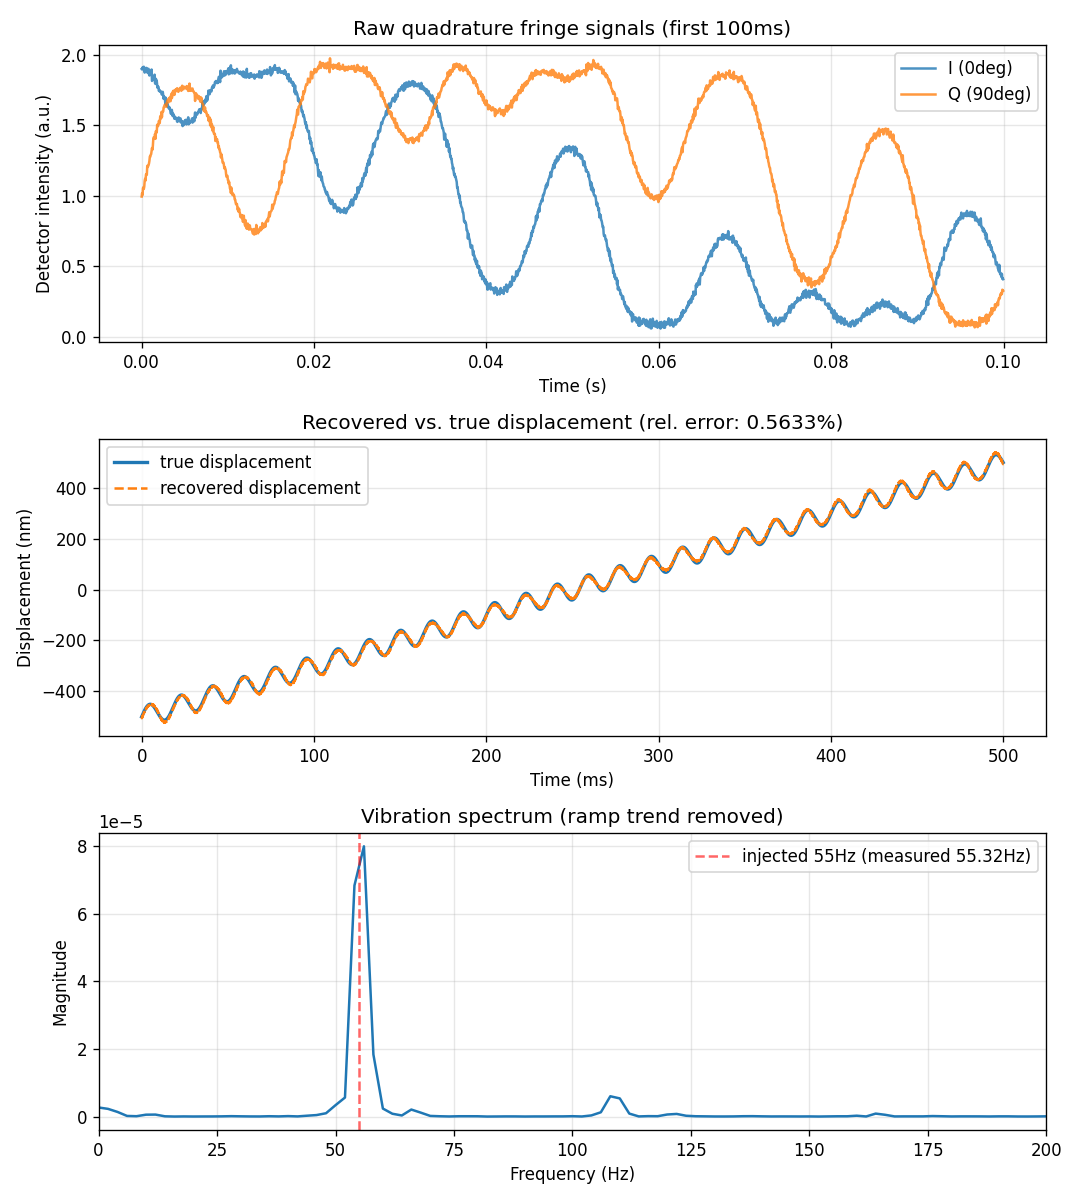
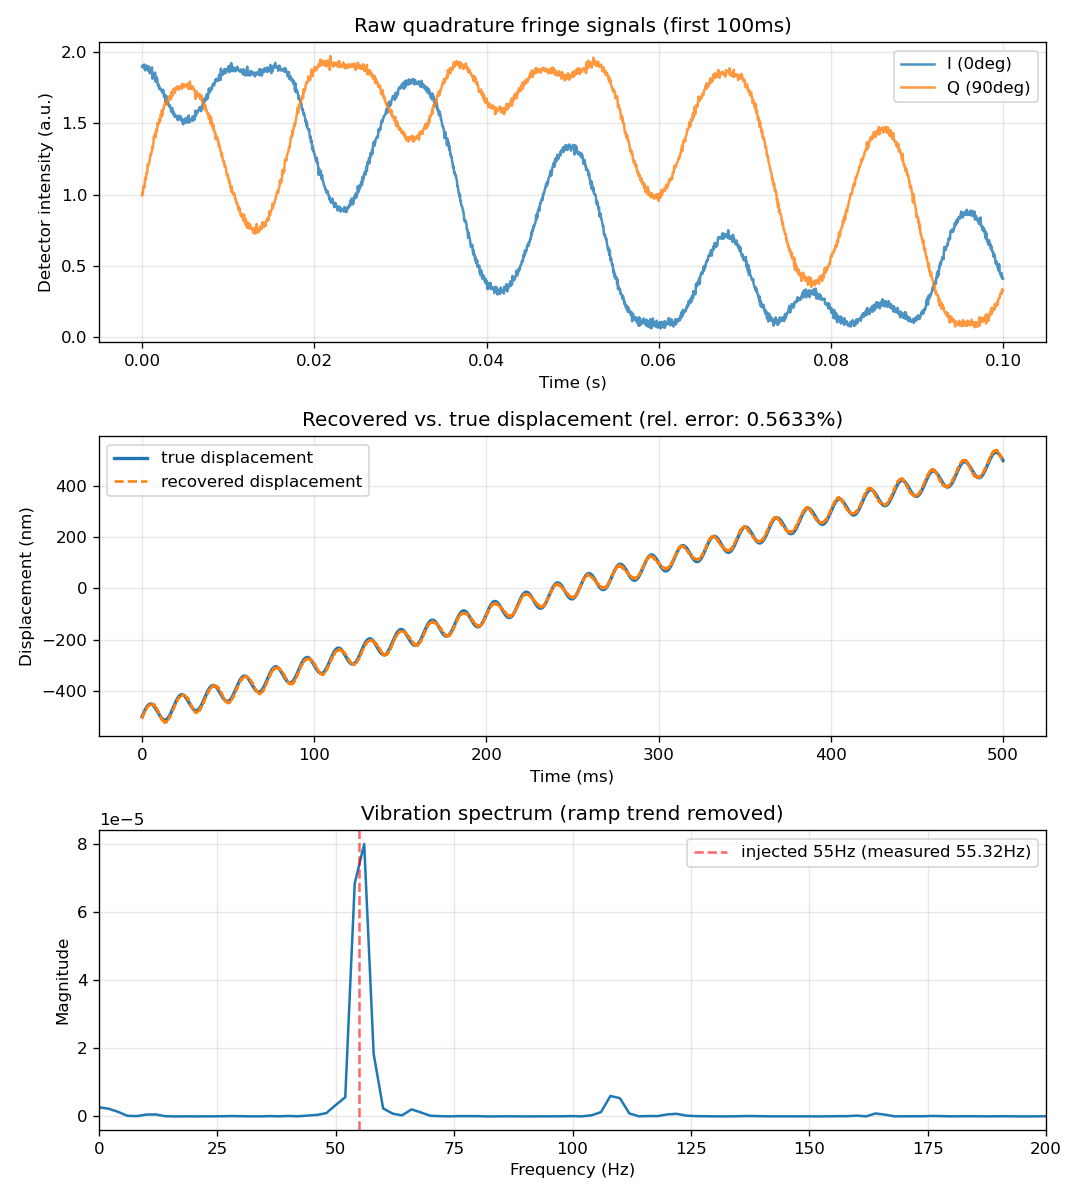
quality pass: fix stale docstring, dedupe dashboard's simulation params and FFT logic, add missing docstrings and a div-by-zero guard

diff --git a/src/analysis.py b/src/analysis.py
@@ -3,8 +3,10 @@ Analysis pipeline: raw quadrature (I, Q) detector signals -> recovered
 mirror displacement.
 
 Steps:
-1. Remove DC bias via a low-pass filter (NOT a whole-record mean -- see the
-   docstring on estimate_dc_lowpass for why that matters).
+1. Remove DC bias via a geometric circle fit on the raw (I,Q) trajectory
+   (NOT a whole-record mean, and not a low-pass filter either -- both were
+   tried and both broke on pure-vibration signals with no ramp; see the
+   docstring on fit_circle_center for the full story).
 2. Remove the 60Hz mains component via a least-squares sinusoid fit at
    exactly 60Hz and subtract it -- narrowband, so it does NOT touch the
    real slow displacement signal the way a generic polynomial detrend would.
@@ -80,13 +82,15 @@ def recover_displacement(
     return displacement
 
 
-def detect_vibration_freq(x_recovered: np.ndarray, t: np.ndarray) -> tuple[float, float]:
+def detect_vibration_freq(x_recovered: np.ndarray, t: np.ndarray, return_spectrum: bool = False):
     """Removes the slow linear trend (ramp) from recovered displacement, then
     FFTs the residual to find the dominant vibration frequency. Uses
     parabolic interpolation around the FFT peak for sub-bin frequency
     accuracy (plain argmax is only accurate to the bin width).
 
-    Returns (frequency_hz, magnitude_at_peak)."""
+    Returns (frequency_hz, magnitude_at_peak), or (frequency_hz, magnitude_at_peak,
+    freqs, spectrum) if return_spectrum=True -- lets a caller (e.g. dashboard.py)
+    plot the same spectrum this function computed instead of re-deriving it."""
     # remove linear trend (the ramp) -- least-squares line fit, subtract
     design = np.column_stack([t, np.ones_like(t)])
     coeffs, *_ = np.linalg.lstsq(design, x_recovered, rcond=None)
@@ -99,11 +103,14 @@ def detect_vibration_freq(x_recovered: np.ndarray, t: np.ndarray) -> tuple[float
 
     peak_bin = int(np.argmax(spectrum))
     if peak_bin == 0 or peak_bin == len(spectrum) - 1:
-        return float(freqs[peak_bin]), float(spectrum[peak_bin])
+        freq, mag = float(freqs[peak_bin]), float(spectrum[peak_bin])
+    else:
+        y0, y1, y2 = spectrum[peak_bin - 1], spectrum[peak_bin], spectrum[peak_bin + 1]
+        denom = y0 - 2 * y1 + y2
+        delta = 0.5 * (y0 - y2) / denom if denom != 0 else 0.0
+        bin_width = freqs[1] - freqs[0]
+        freq, mag = float(freqs[peak_bin] + delta * bin_width), float(spectrum[peak_bin])
 
-    y0, y1, y2 = spectrum[peak_bin - 1], spectrum[peak_bin], spectrum[peak_bin + 1]
-    denom = y0 - 2 * y1 + y2
-    delta = 0.5 * (y0 - y2) / denom if denom != 0 else 0.0
-    bin_width = freqs[1] - freqs[0]
-    freq = freqs[peak_bin] + delta * bin_width
-    return float(freq), float(spectrum[peak_bin])
+    if return_spectrum:
+        return freq, mag, freqs, spectrum
+    return freq, mag

diff --git a/src/dashboard.py b/src/dashboard.py
@@ -12,24 +12,23 @@ sys.path.insert(0, str(Path(__file__).resolve().parent))
 import matplotlib
 matplotlib.use("Agg")
 import matplotlib.pyplot as plt
-import numpy as np
 
-from optics import simulate_interferometer
-from validate import make_test_displacement, run_validation
+from validate import run_validation
 from analysis import detect_vibration_freq
 
 RESULTS_DIR = Path(__file__).resolve().parent.parent / "results"
 
 
 def render_dashboard(out_path: Path = RESULTS_DIR / "dashboard.png"):
-    result = run_validation(duration_s=0.5, fs=20_000)  # shorter window for a readable fringe plot
-    t, x_true, x_recovered = result["t"], result["x_true"], result["x_recovered"]
+    # shorter window for a readable fringe plot; I/Q/t/x_true/x_recovered all
+    # come from this single run_validation call now (rather than a second,
+    # separately-parameterized simulate_interferometer call) so there's no
+    # risk of the two calls' parameters silently drifting apart.
+    result = run_validation(duration_s=0.5, fs=20_000)
+    t, I, Q = result["t"], result["I"], result["Q"]
+    x_true, x_recovered = result["x_true"], result["x_recovered"]
 
-    displacement_fn = make_test_displacement(2e-6, 40e-9, 55.0)
-    I, Q, _ = simulate_interferometer(t, displacement_fn, shot_noise_std=0.01, thermal_noise_std=0.01,
-                                       mains_amplitude=0.02, drift_amplitude=0.01, seed=1)
-
-    freq, _ = detect_vibration_freq(x_recovered, t)
+    freq, _, freqs, spectrum = detect_vibration_freq(x_recovered, t, return_spectrum=True)
 
     fig, axes = plt.subplots(3, 1, figsize=(9, 10))
 
@@ -52,12 +51,6 @@ def render_dashboard(out_path: Path = RESULTS_DIR / "dashboard.png"):
     ax.grid(alpha=0.3)
 
     ax = axes[2]
-    design = np.column_stack([t, np.ones_like(t)])
-    coeffs, *_ = np.linalg.lstsq(design, x_recovered, rcond=None)
-    residual = x_recovered - design @ coeffs
-    windowed = residual * np.hanning(len(residual))
-    spectrum = np.abs(np.fft.rfft(windowed))
-    freqs = np.fft.rfftfreq(len(windowed), d=t[1] - t[0])
     ax.plot(freqs, spectrum)
     ax.axvline(55.0, color="red", linestyle="--", alpha=0.6, label=f"injected 55Hz (measured {freq:.2f}Hz)")
     ax.set_xlim(0, 200)
@@ -68,7 +61,7 @@ def render_dashboard(out_path: Path = RESULTS_DIR / "dashboard.png"):
     ax.grid(alpha=0.3)
 
     fig.tight_layout()
-    RESULTS_DIR.mkdir(exist_ok=True)
+    RESULTS_DIR.mkdir(parents=True, exist_ok=True)
     fig.savefig(out_path, dpi=120)
     plt.close(fig)
     print(f"Saved dashboard to {out_path}")

diff --git a/src/validate.py b/src/validate.py
@@ -10,6 +10,8 @@ from analysis import recover_displacement
 
 
 def make_test_displacement(ramp_velocity_m_s: float, vib_amplitude_m: float, vib_freq_hz: float):
+    """Returns a displacement_fn(t) = ramp + sinusoidal vibration, for injecting
+    a known ground-truth waveform into simulate_interferometer during validation."""
     def displacement_fn(t):
         return ramp_velocity_m_s * t + vib_amplitude_m * np.sin(2 * np.pi * vib_freq_hz * t)
     return displacement_fn
@@ -27,6 +29,14 @@ def run_validation(
     drift_amplitude: float = 0.01,
     seed: int = 1,
 ) -> dict:
+    """Injects a known ramp+vibration displacement, simulates the resulting
+    (I,Q) detector signals, recovers displacement via the analysis pipeline,
+    and measures recovery error against the injected ground truth.
+
+    Returns a dict with keys: t, x_true, x_recovered (all mean-centered, since
+    absolute phase is arbitrary), rms_error_m, peak_to_peak_m, rel_error
+    (rms_error_m / peak_to_peak_m -- the Phase 2 acceptance metric, target <1%).
+    """
     t = np.arange(0, duration_s, 1 / fs)
     displacement_fn = make_test_displacement(ramp_velocity_m_s, vib_amplitude_m, vib_freq_hz)
 
@@ -47,10 +57,15 @@ def run_validation(
     error = x_recovered_centered - x_true_centered
     rms_error = np.sqrt(np.mean(error ** 2))
     peak_to_peak = np.ptp(x_true_centered)
+    if peak_to_peak == 0:
+        raise ValueError(
+            "peak_to_peak displacement is exactly 0 (ramp_velocity_m_s and vib_amplitude_m "
+            "both 0?) -- relative error is undefined for a flat ground-truth signal"
+        )
     rel_error = rms_error / peak_to_peak
 
     return {
-        "t": t, "x_true": x_true_centered, "x_recovered": x_recovered_centered,
+        "t": t, "I": I, "Q": Q, "x_true": x_true_centered, "x_recovered": x_recovered_centered,
         "rms_error_m": rms_error, "peak_to_peak_m": peak_to_peak, "rel_error": rel_error,
     }
 

diff --git a/README.md b/README.md
@@ -52,6 +52,8 @@ Full validation writeup with all equations and numbers: [`report/validation_repo
 
 My original DC-bias estimator (whole-record mean) only worked because every test above includes a large ramp. Pure steady-state vibration sensing with no ramp — one of this project's two stated goals — gave 58%+ recovery error, silently. I fixed it by geometrically fitting a circle to the (I,Q) trajectory instead (see `report/validation_report.md` for the full story, including a first fix attempt that didn't actually work). Every result above is from the corrected code.
 
+A later quality pass caught a couple of smaller loose ends from that fix: `analysis.py`'s module docstring still described the old low-pass-filter approach instead of the circle fit that actually replaced it, and `dashboard.py` re-simulated the interferometer a second time with its own hand-copied parameters instead of reusing `validate.py`'s single source of truth — a real risk of the two silently drifting apart. Both fixed; `dashboard.py` now pulls I/Q straight from one `run_validation()` call.
+
 ## Honest limitations
 
 - **Simulation only** — every number above is on simulated detector data, not a real optical bench. Framed throughout as "I validated the analysis pipeline," not "I built an interferometer."